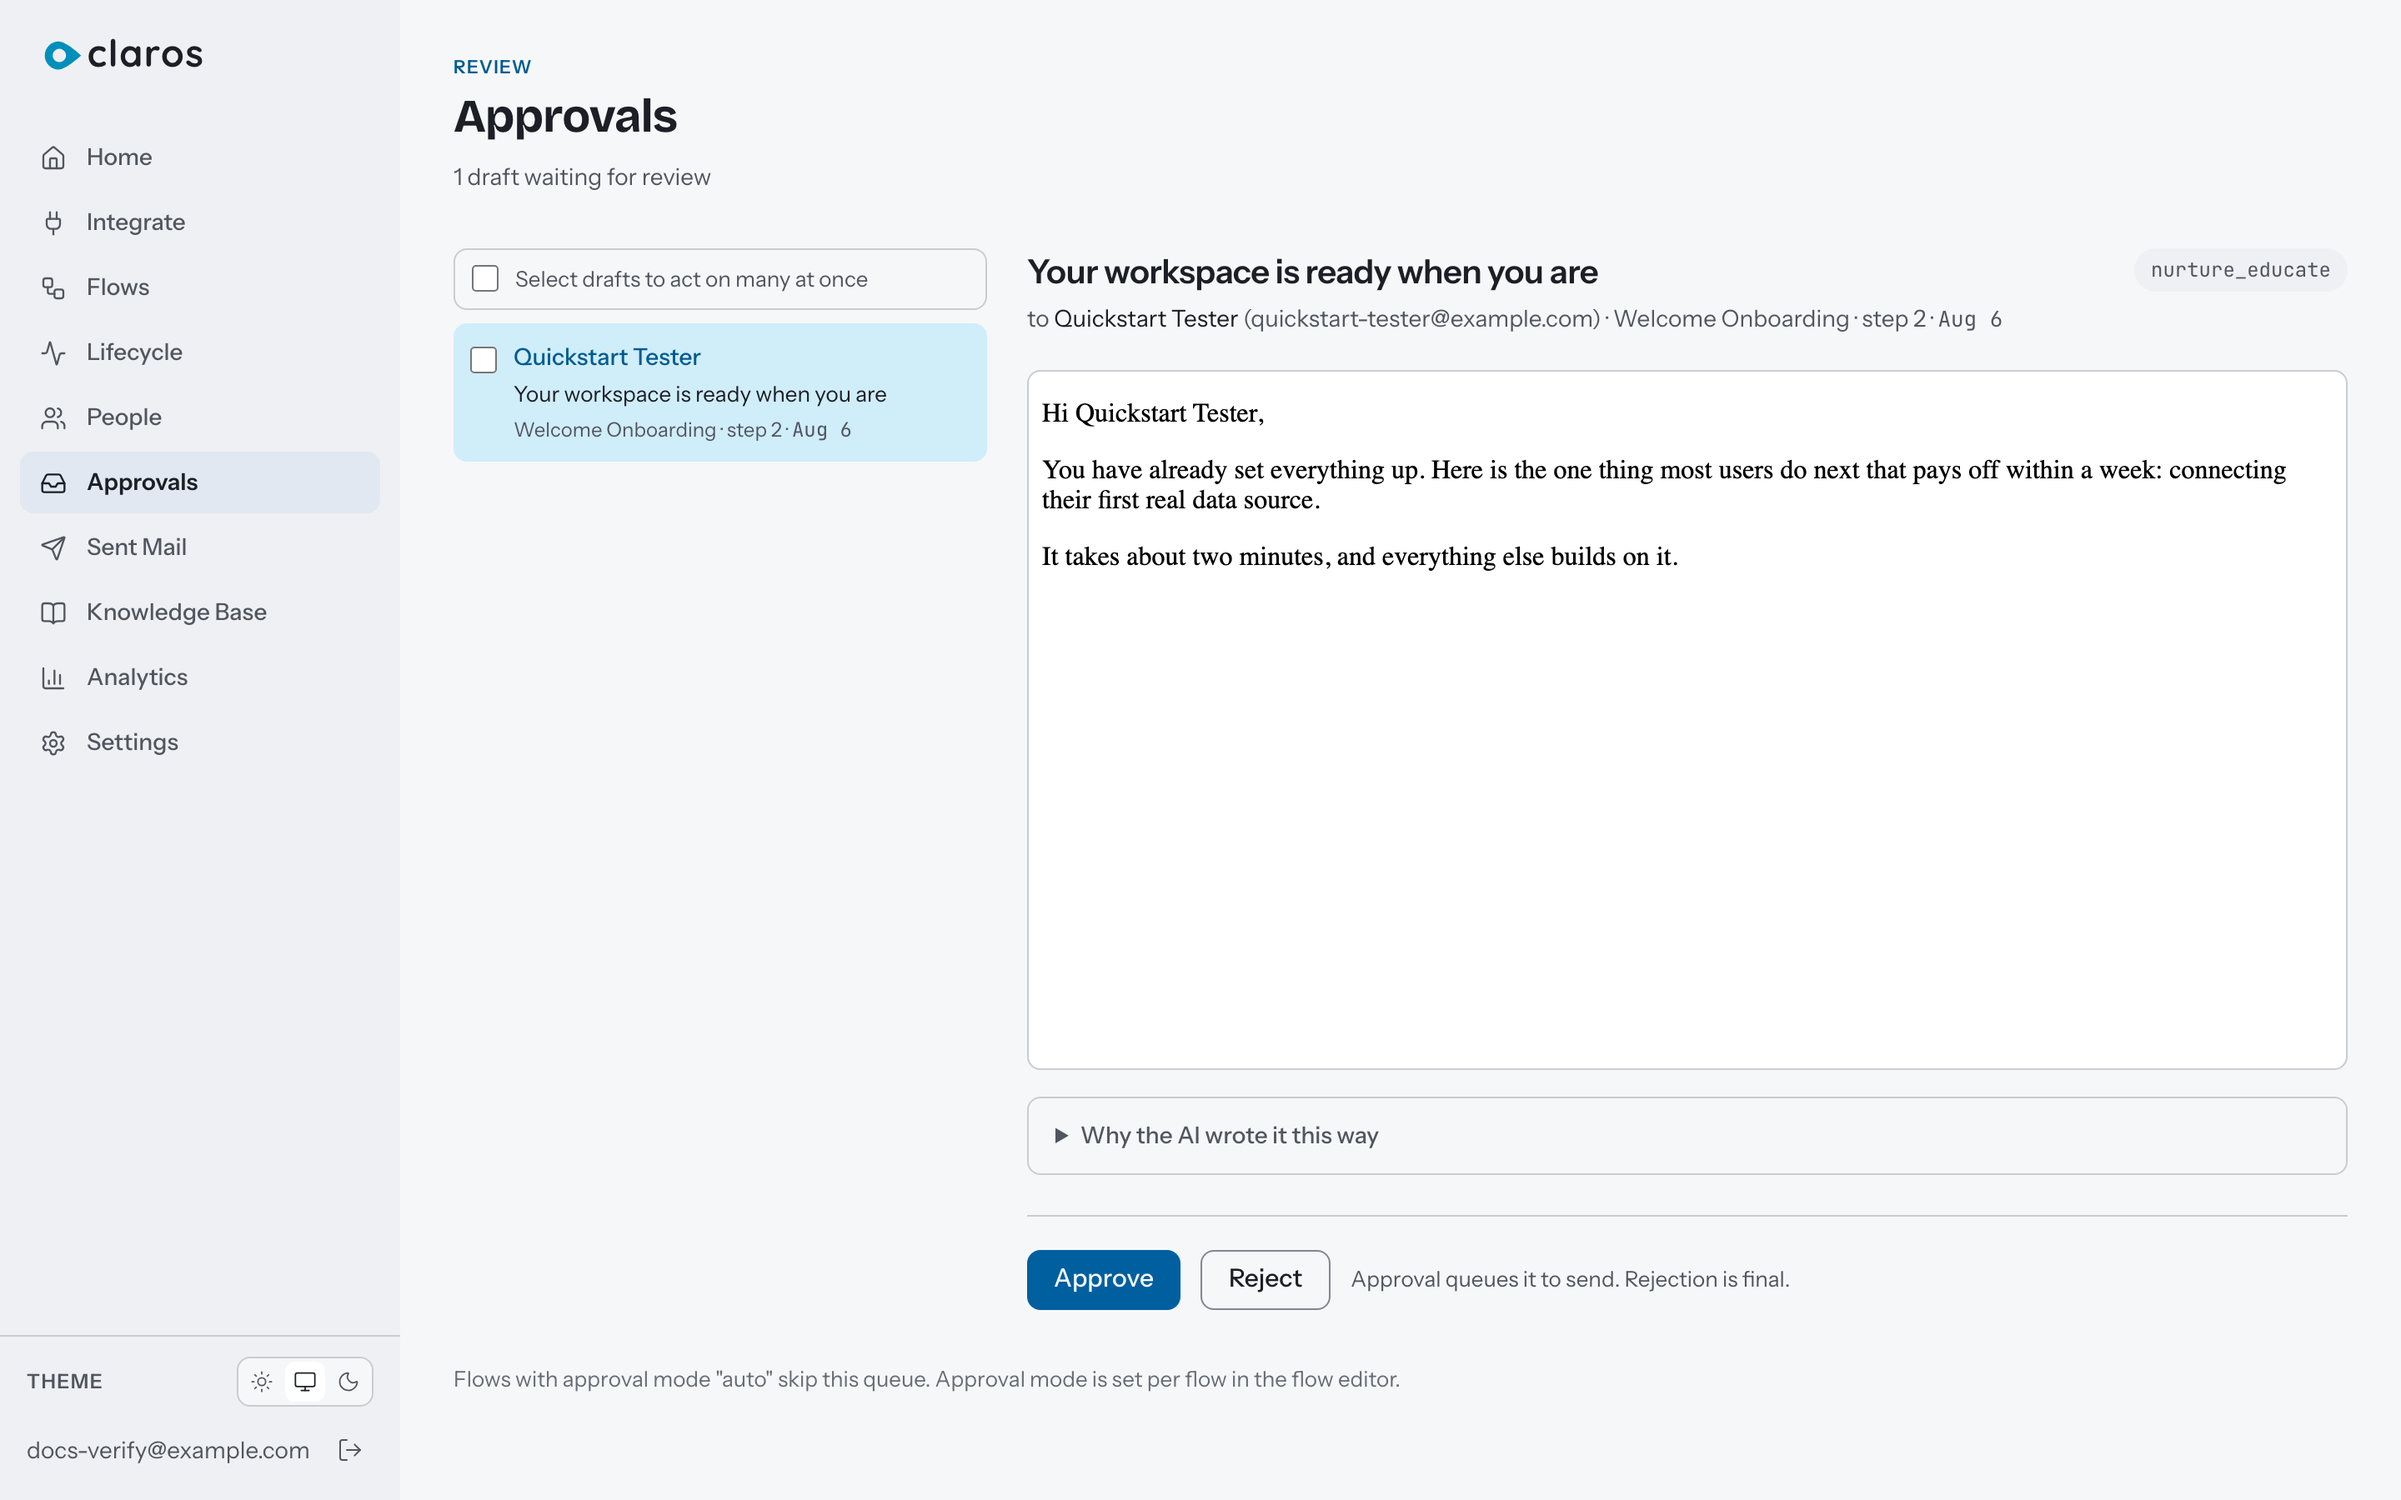
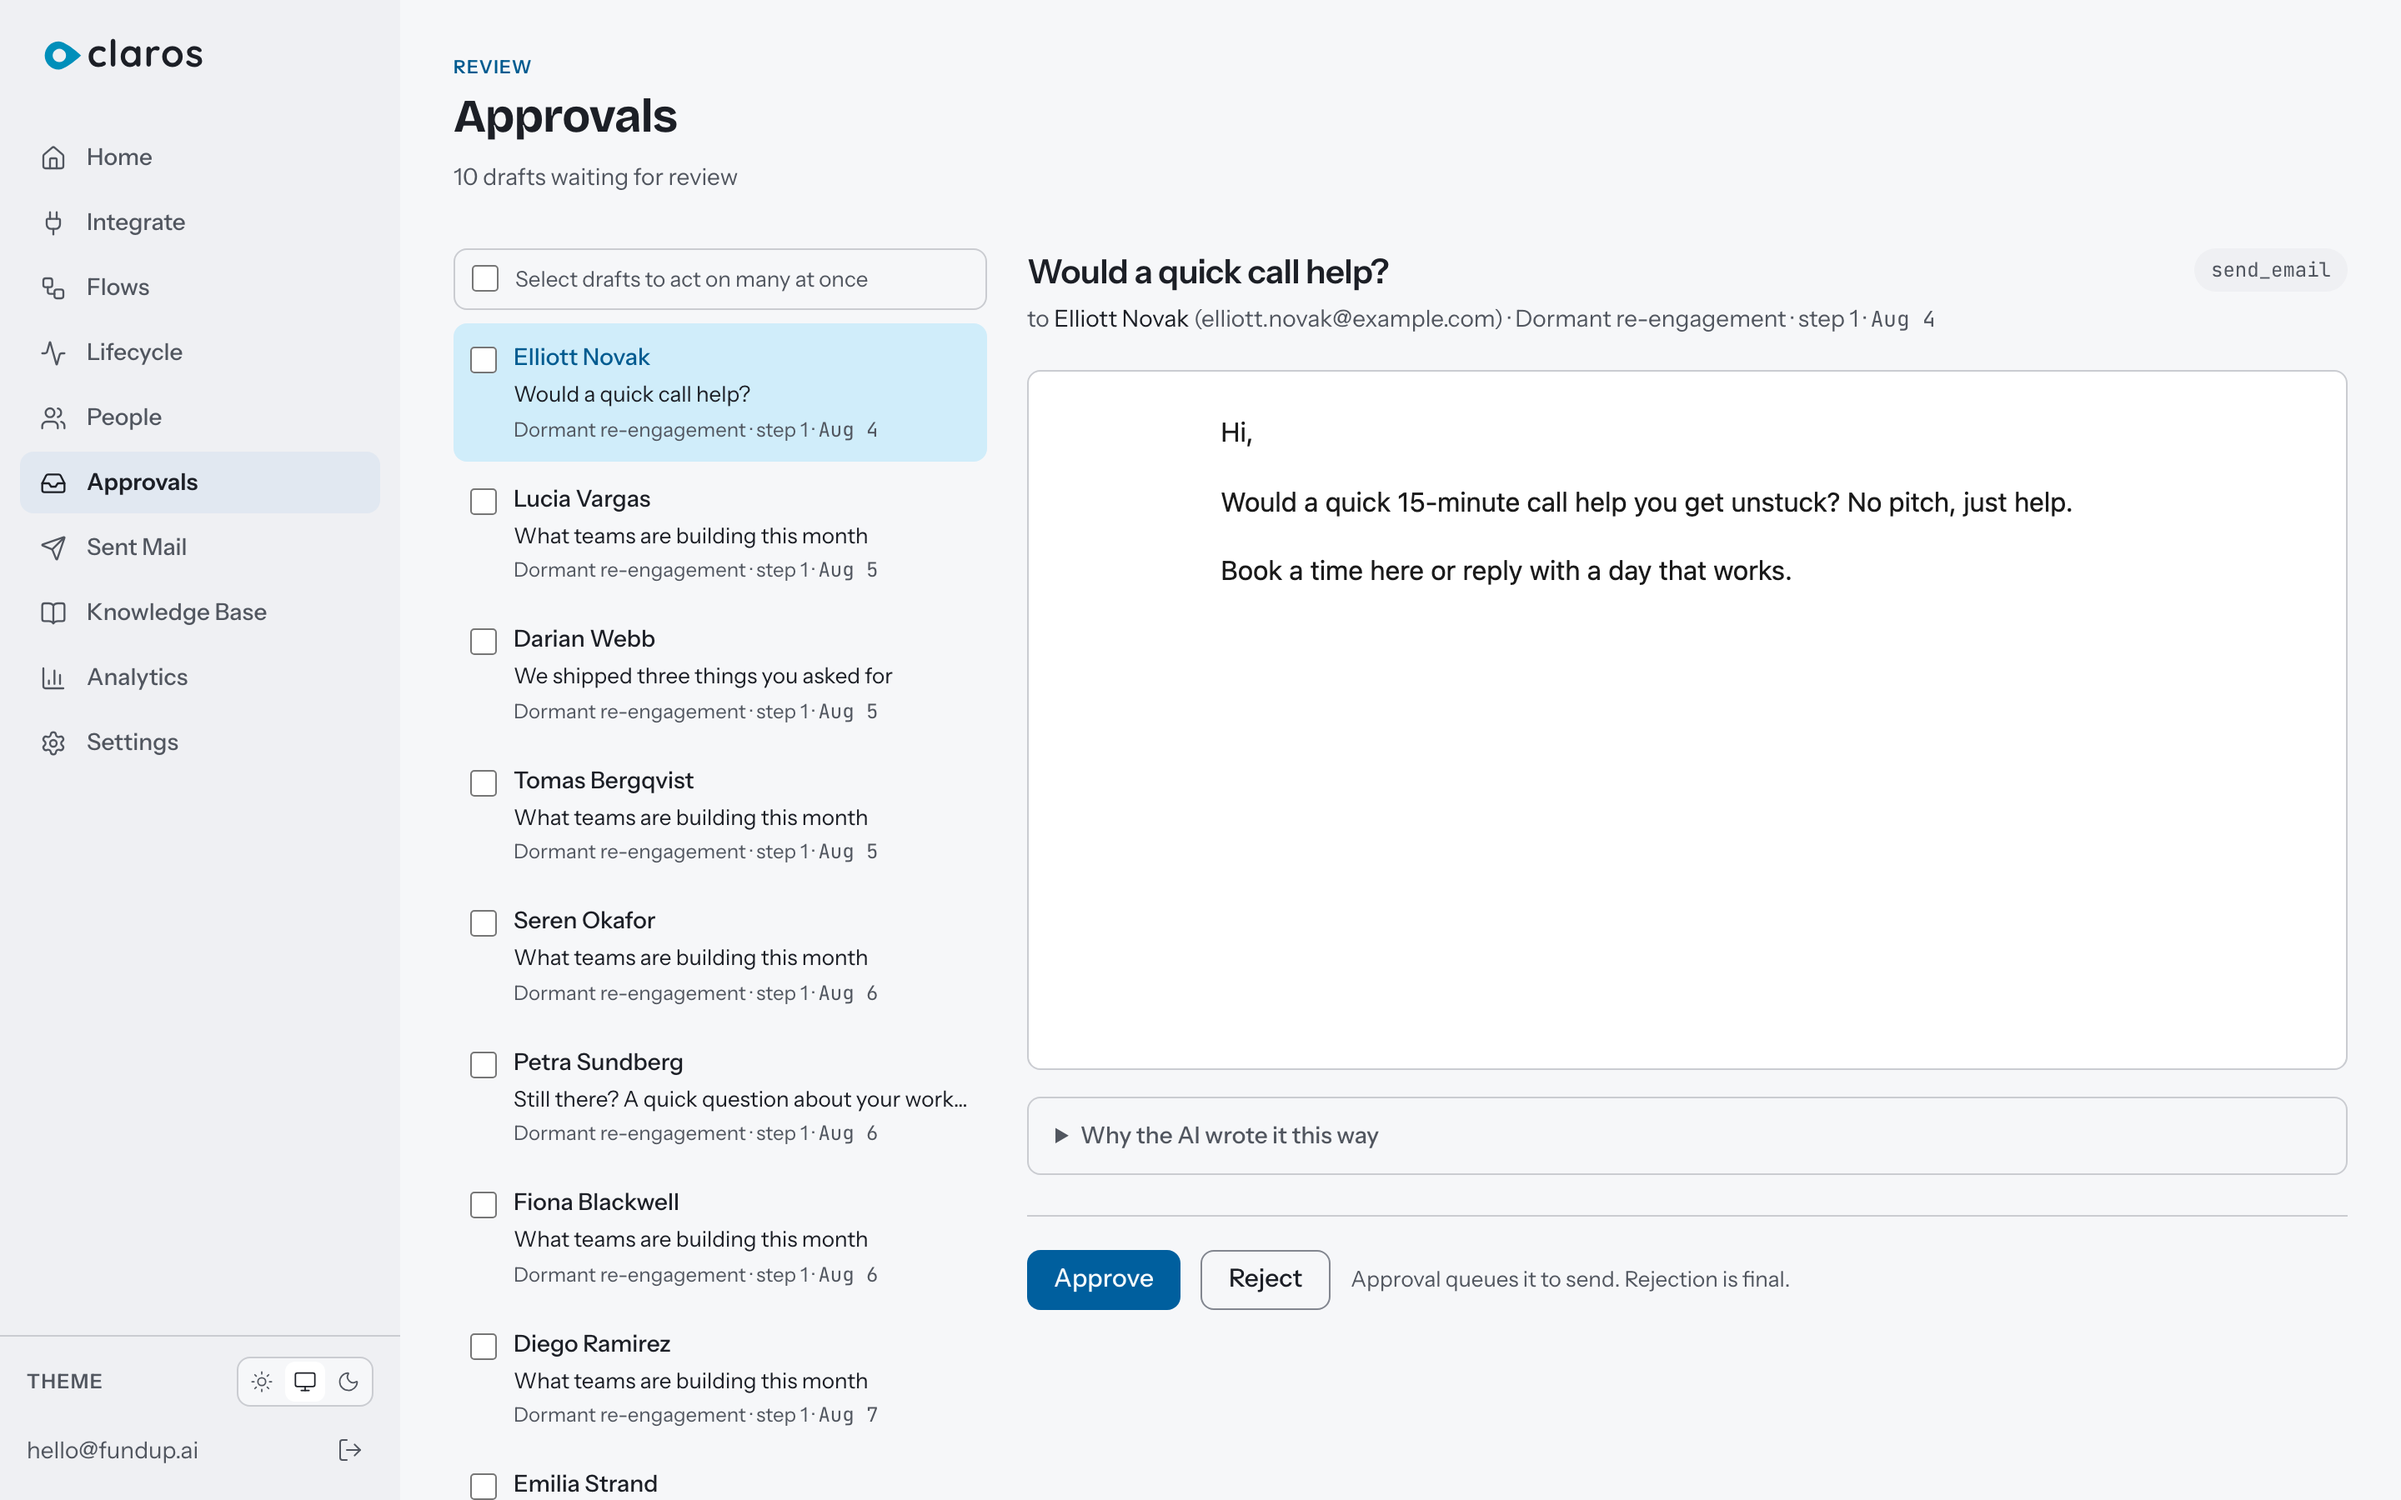
Claros v0.6.1

diff --git a/README.md b/README.md
@@ -19,6 +19,10 @@ An AI-native alternative to Customer.io, Loops, and Mautic. Flows are written in
 
 **Your stack, your keys.** Emails go through your Resend or SMTP account. AI runs against your OpenAI-compatible endpoint (OpenAI, Anthropic, Gemini, Groq, Ollama). Postgres is the only infrastructure. Nothing phones home.
 
+**A retention grid, not a vanity dashboard.** Contacts are bucketed by tenure and recency into a 4x4 grid. Each cell is an audience you can act on: create a flow, see who is there, watch the trend. The grid adapts to your product's natural rhythm.
+
+![Lifecycle retention grid](guide/assets/lifecycle.png)
+
 ## Get running
 
 ```bash
